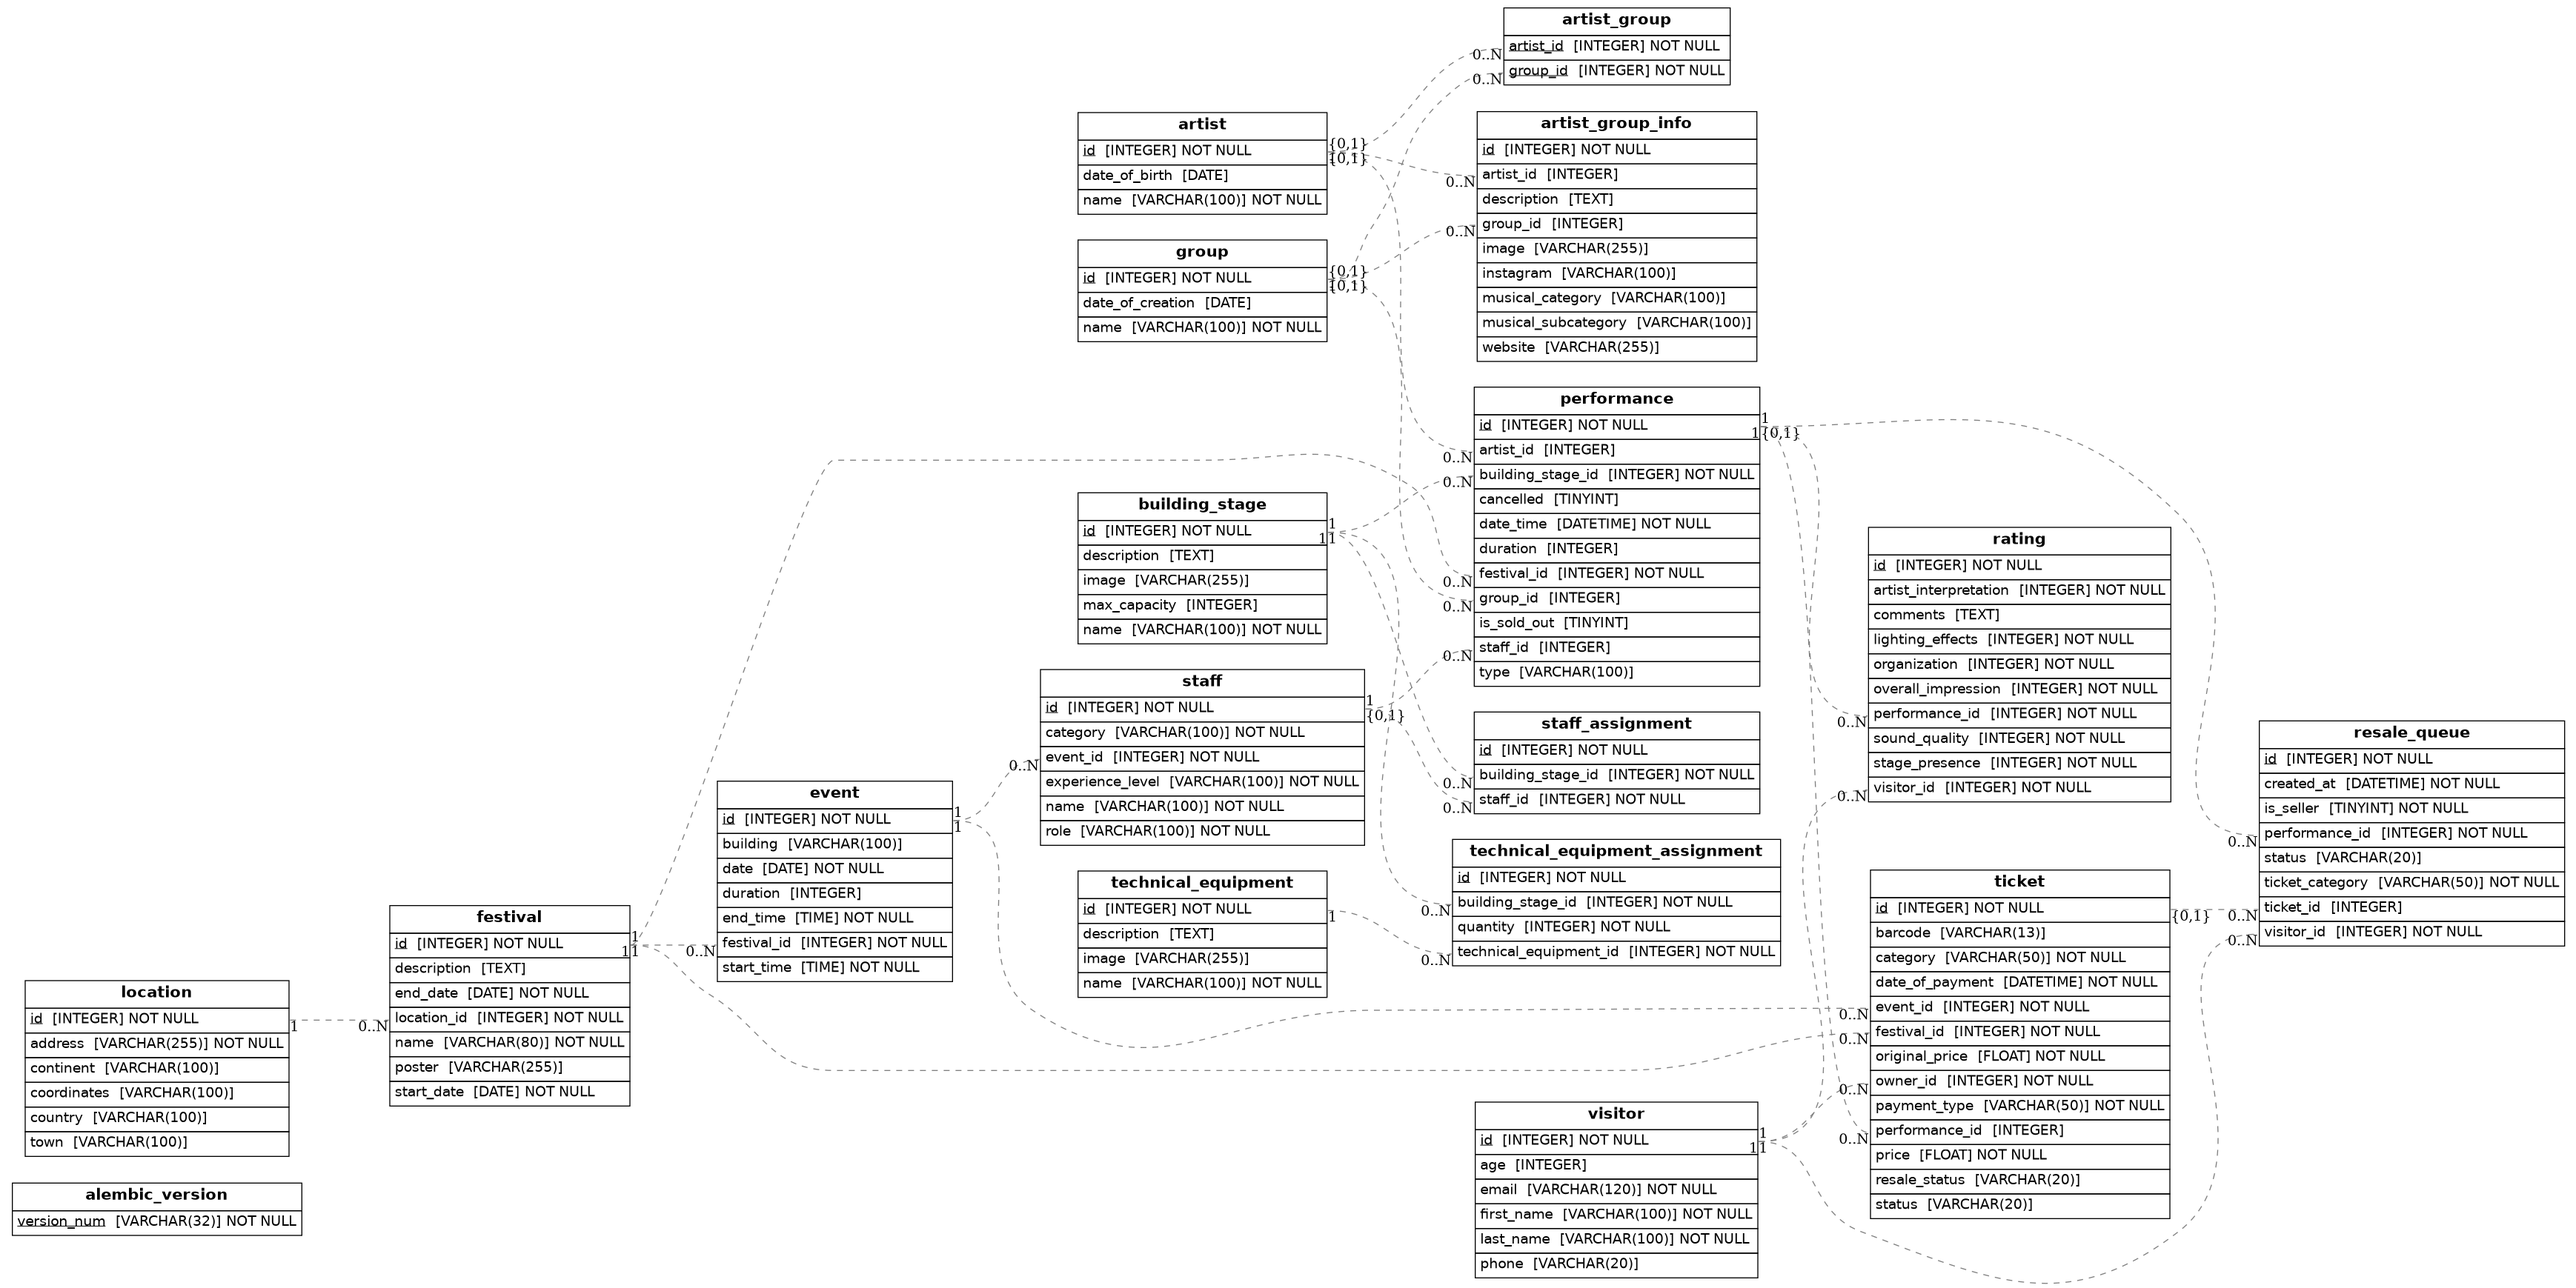
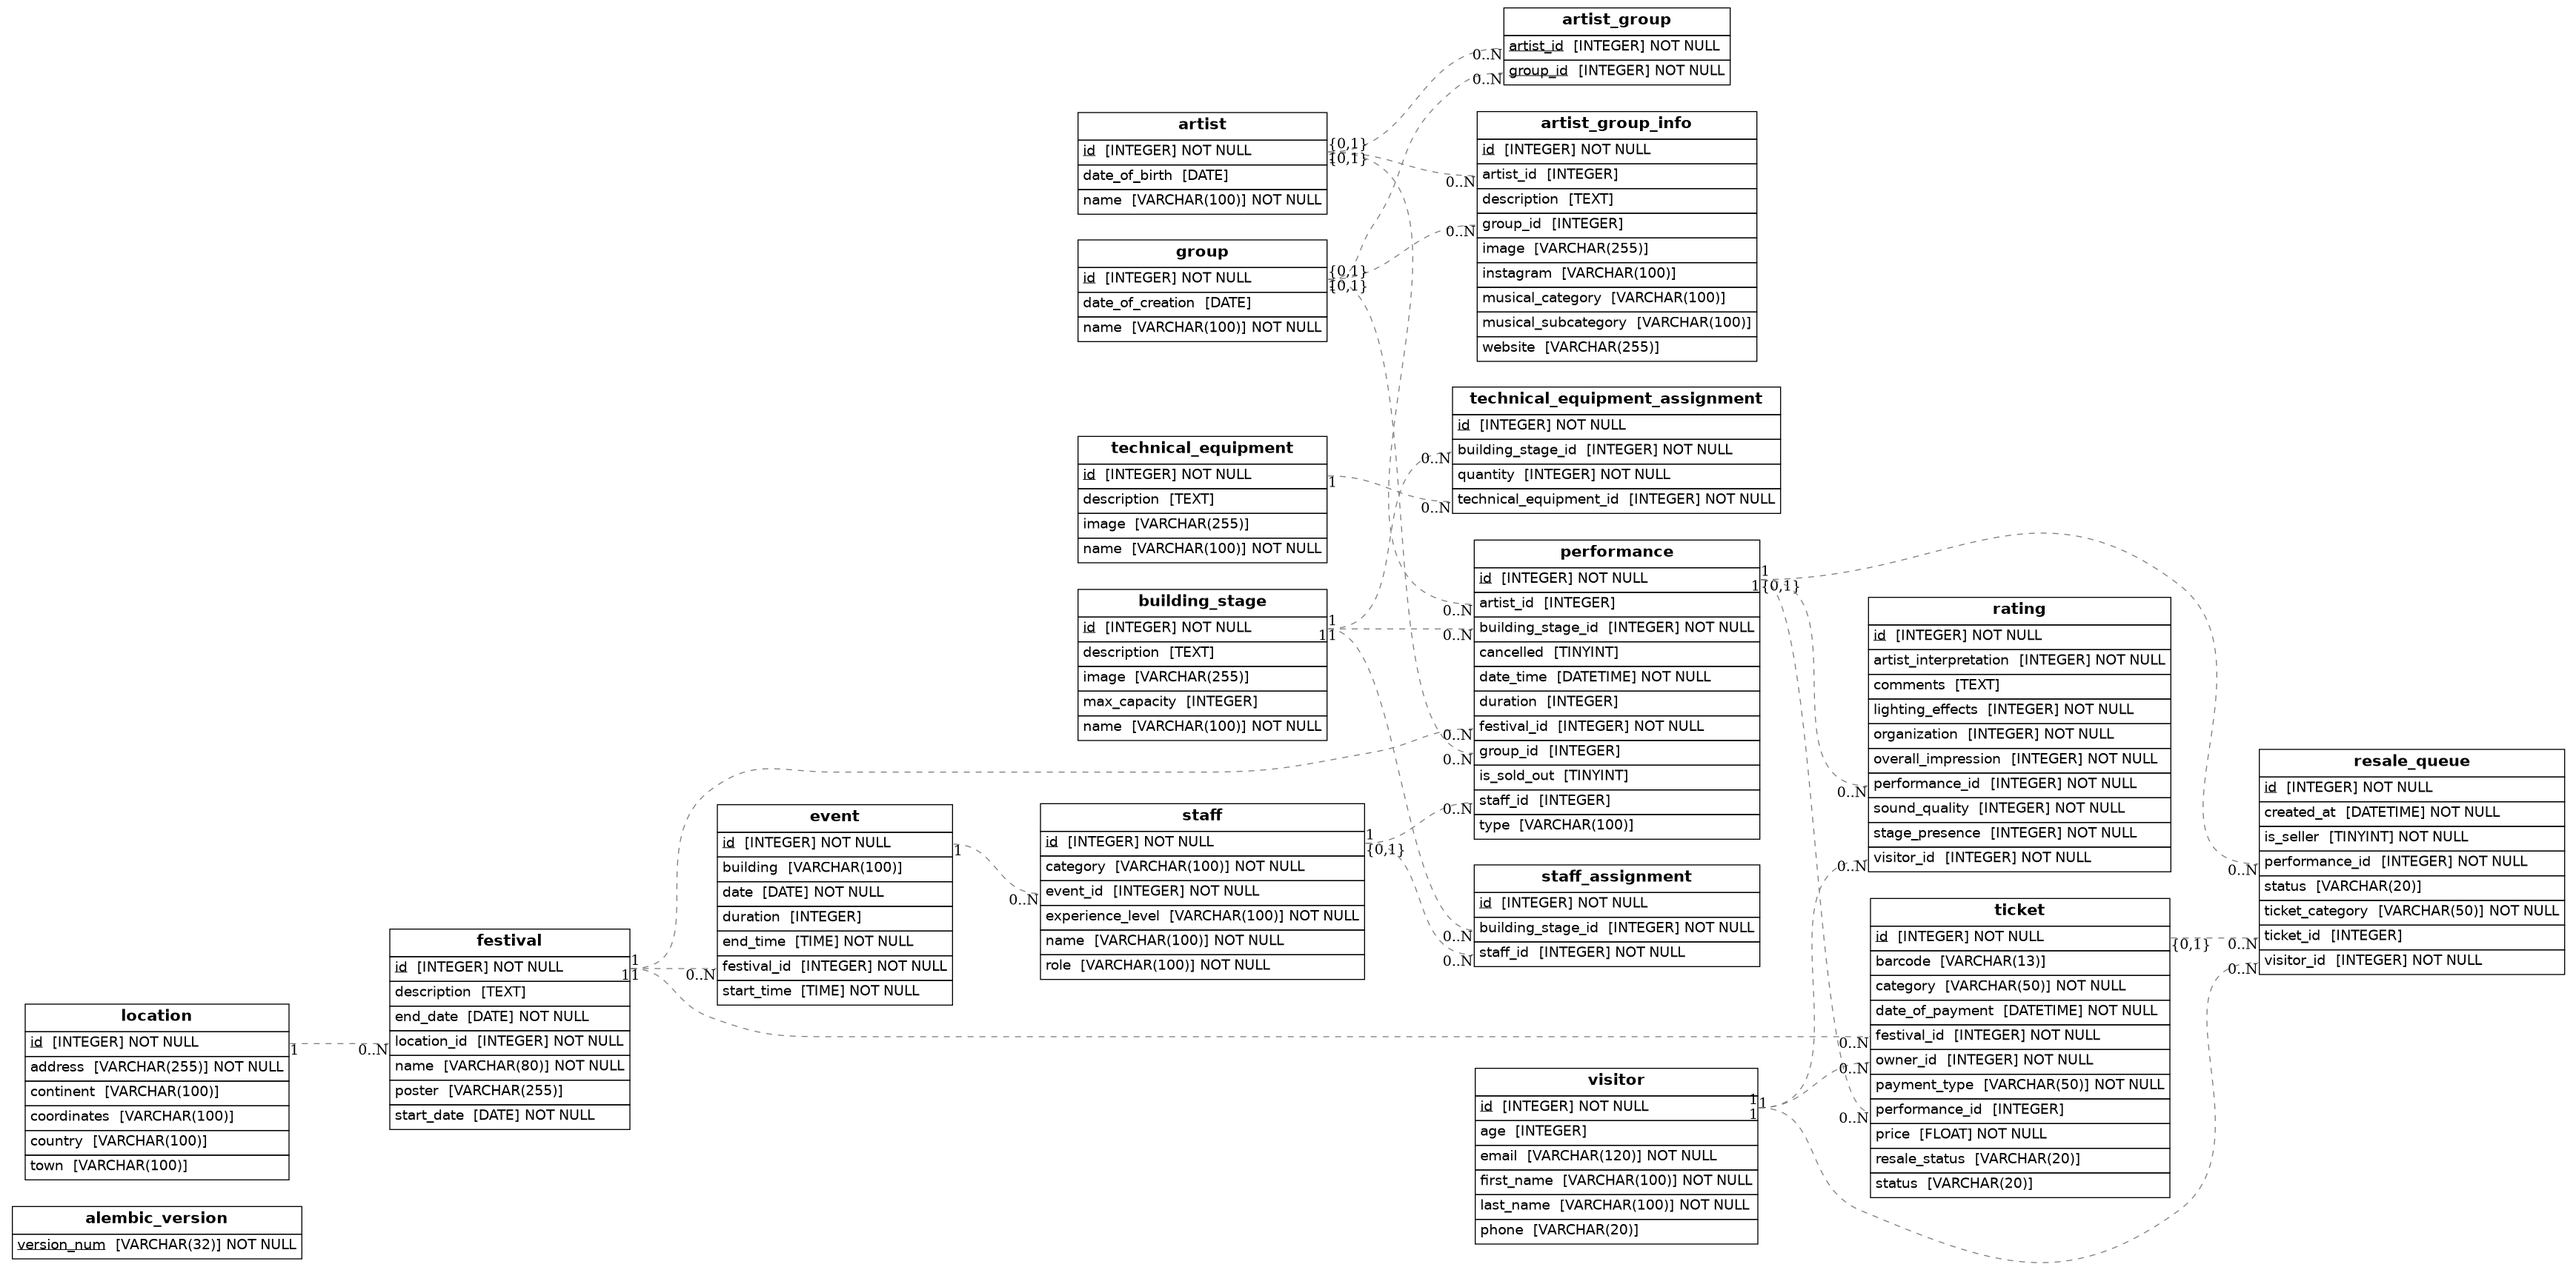
updated er diAGRAM

diff --git a/migrations/versions/0a6cce07cb4e_migration.py b/migrations/versions/0a6cce07cb4e_migration.py
@@ -1,0 +1,36 @@
+"""migration
+
+Revision ID: 0a6cce07cb4e
+Revises: 4752cabcefbf
+Create Date: 2025-04-01 18:53:18.679192
+
+"""
+from alembic import op
+import sqlalchemy as sa
+from sqlalchemy.dialects import mysql
+
+# revision identifiers, used by Alembic.
+revision = '0a6cce07cb4e'
+down_revision = '4752cabcefbf'
+branch_labels = None
+depends_on = None
+
+
+def upgrade():
+    # ### commands auto generated by Alembic - please adjust! ###
+    with op.batch_alter_table('ticket', schema=None) as batch_op:
+        batch_op.drop_constraint('ticket_ibfk_1', type_='foreignkey')
+        batch_op.drop_column('event_id')
+        batch_op.drop_column('original_price')
+
+    # ### end Alembic commands ###
+
+
+def downgrade():
+    # ### commands auto generated by Alembic - please adjust! ###
+    with op.batch_alter_table('ticket', schema=None) as batch_op:
+        batch_op.add_column(sa.Column('original_price', mysql.FLOAT(), nullable=False))
+        batch_op.add_column(sa.Column('event_id', mysql.INTEGER(display_width=11), autoincrement=False, nullable=False))
+        batch_op.create_foreign_key('ticket_ibfk_1', 'event', ['event_id'], ['id'])
+
+    # ### end Alembic commands ###
